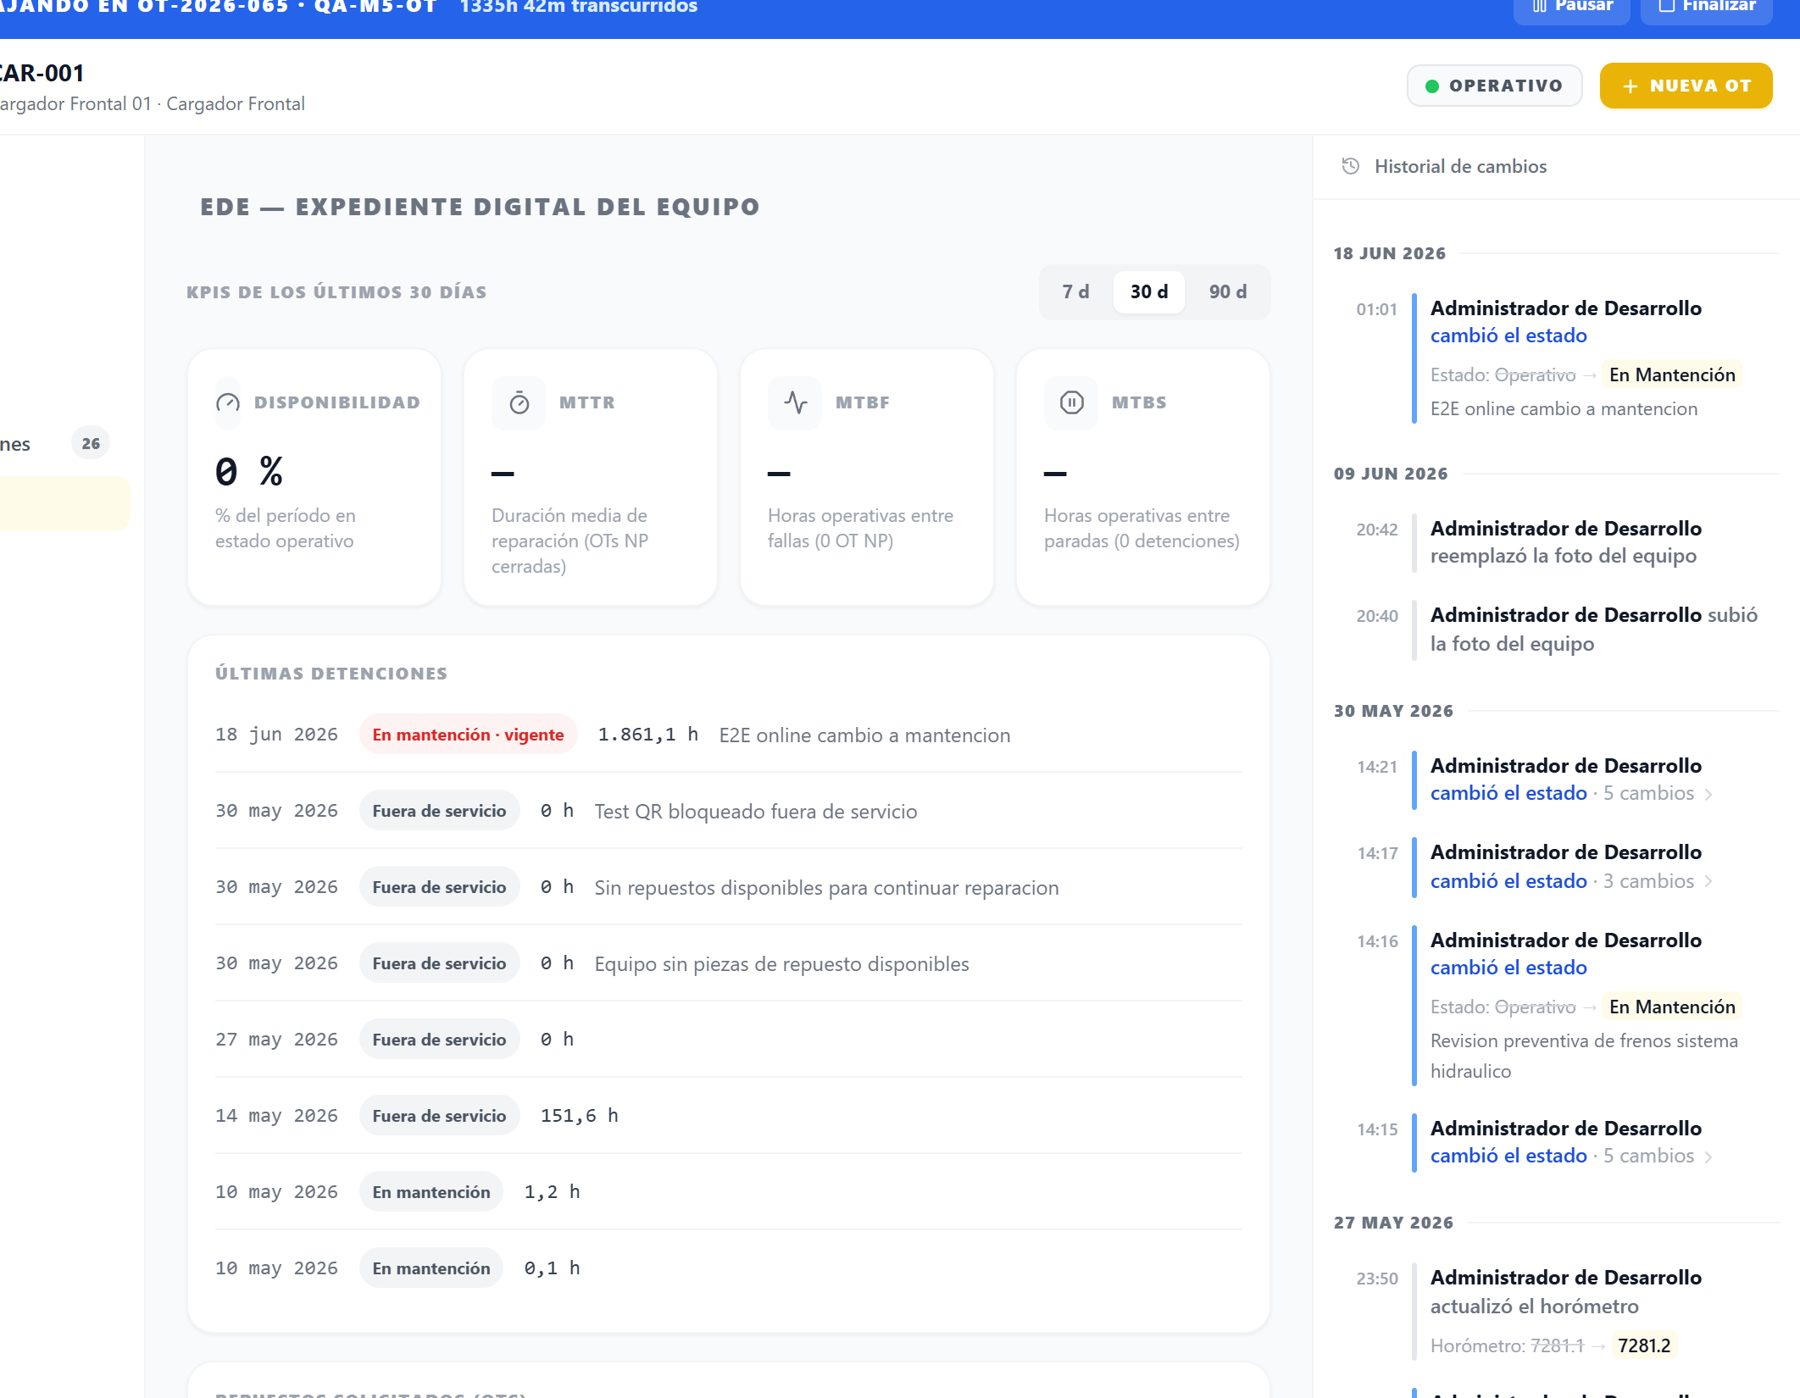
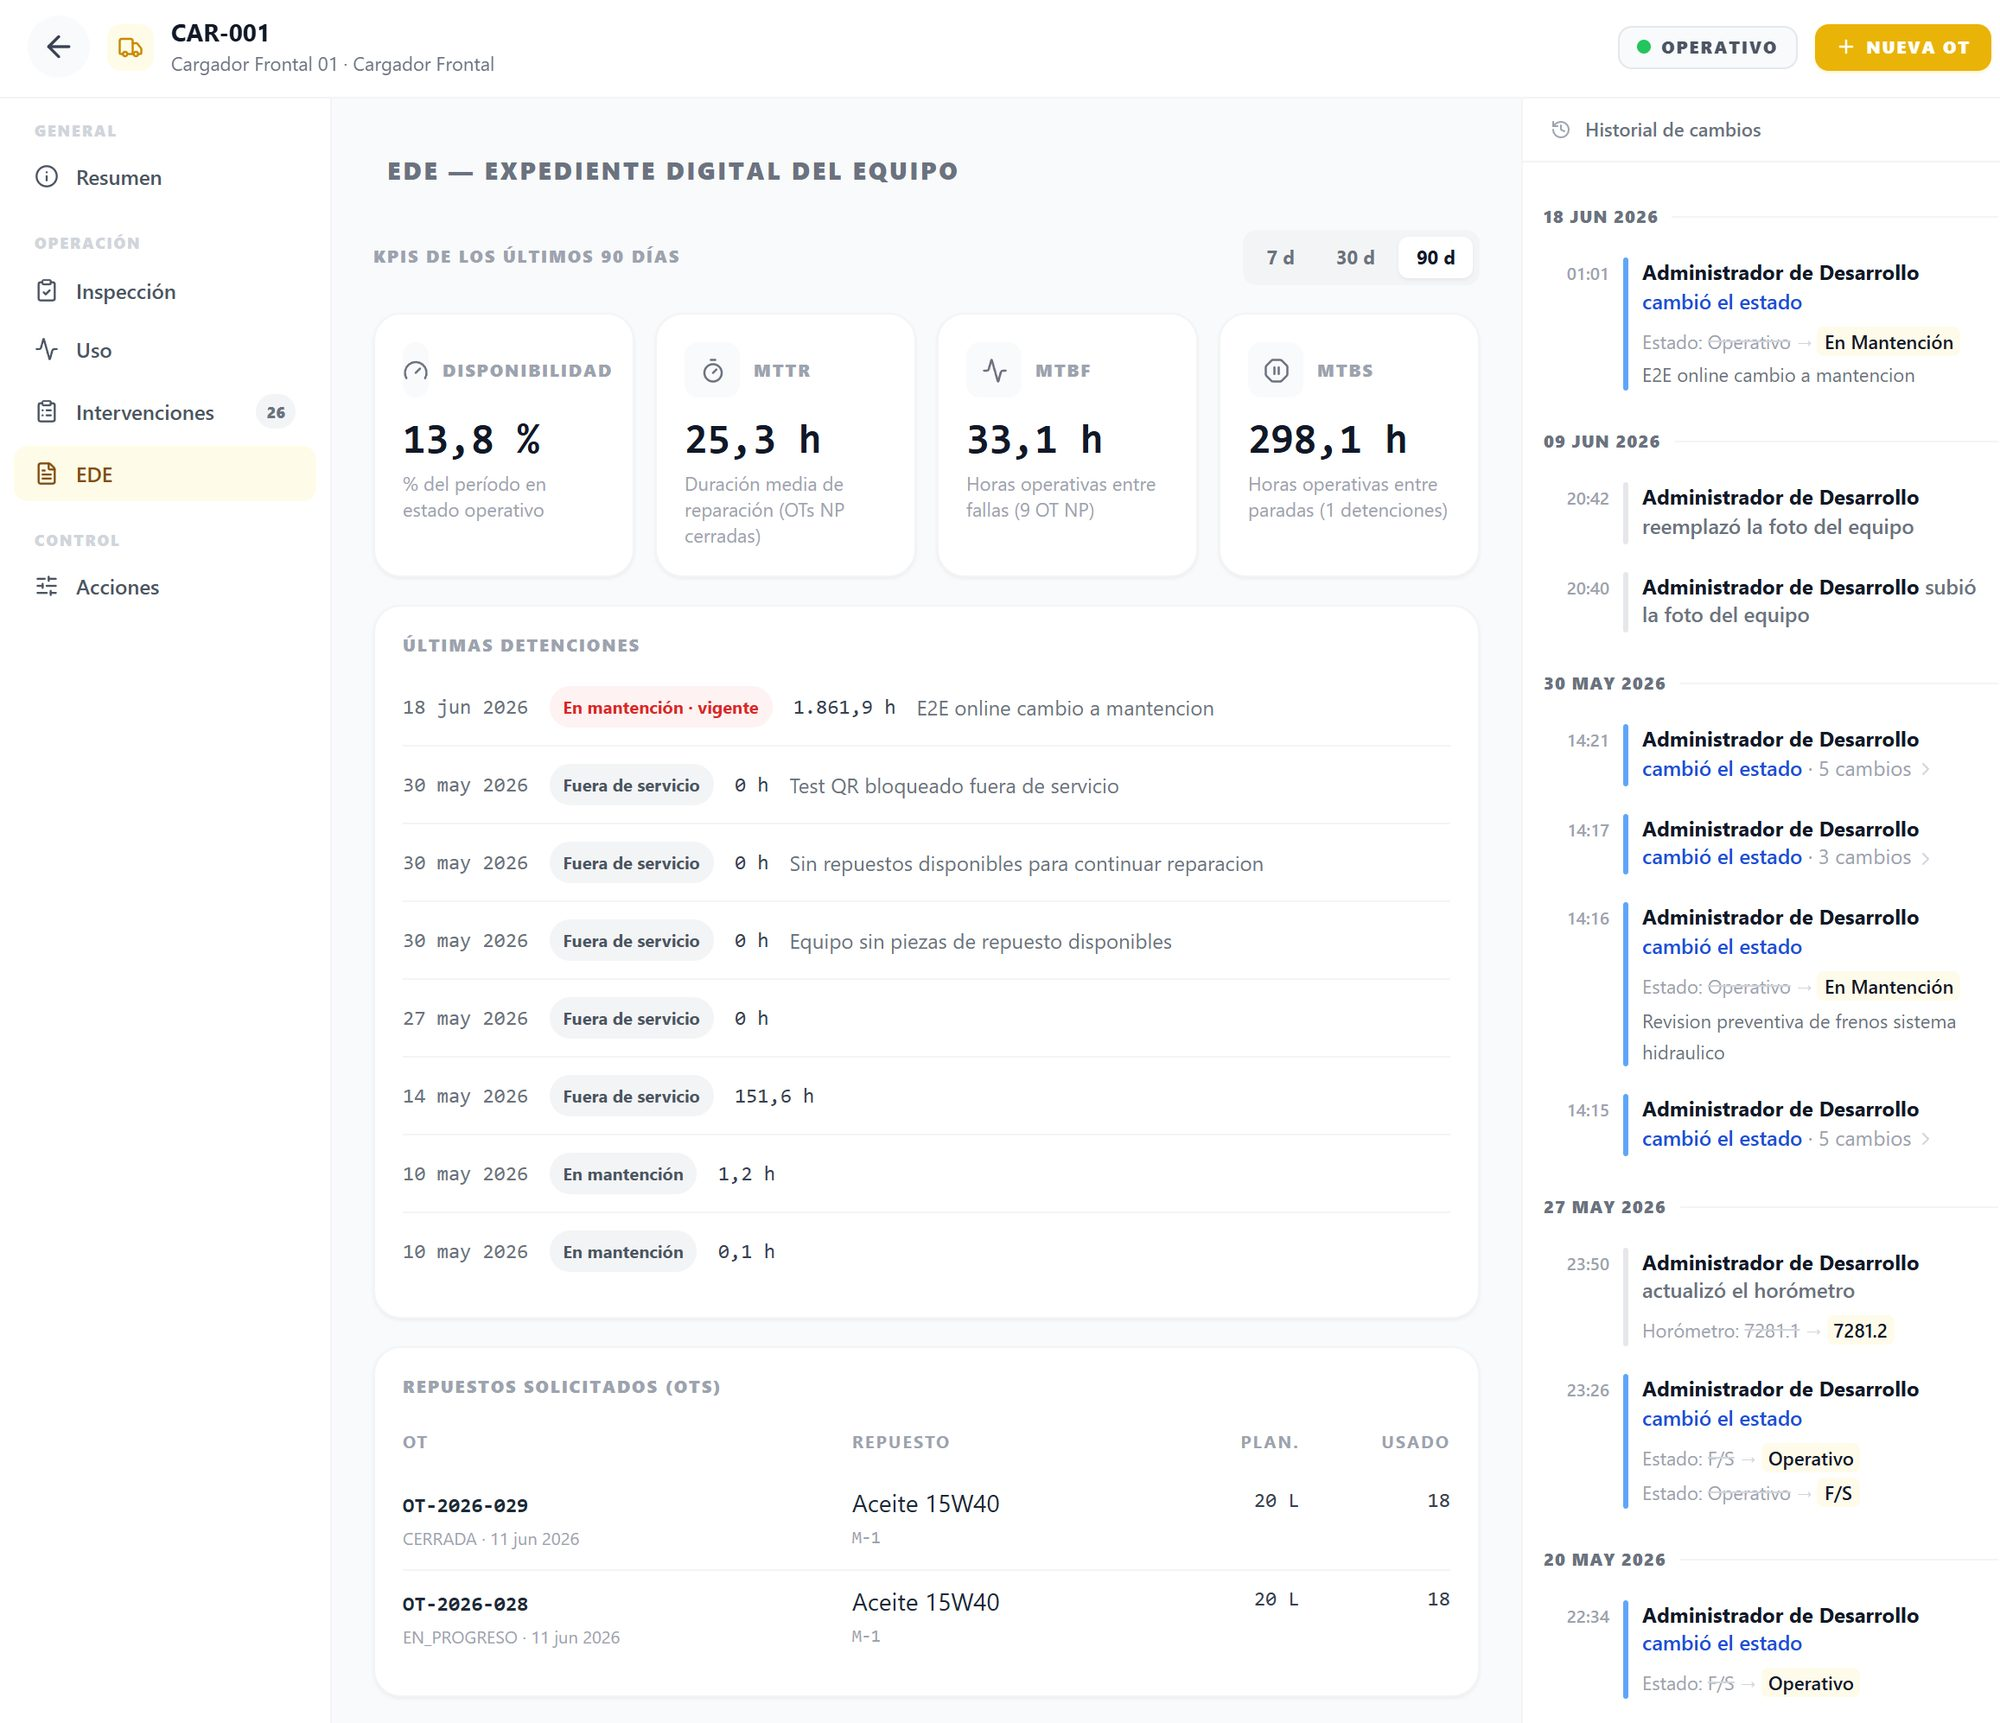
Capturas reales retomadas, Quiénes somos tipográfico y terreno con teléfono real
- panel-operacional.jpg: Visión Operativa completa (KPIs + estado de flota), sin columnas cortadas
- ede.jpg: EDE CAR-001 período 90 d con KPIs reales, sin banner de OT superpuesto
- EDE en /producto: columnas con alturas parejas (items-stretch + object-cover)
- Terreno: pantalla real de Escanear QR en marco de teléfono + bitácora a lo ancho
- Quiénes somos (home): declaración tipográfica + ficha de datos reales; fuera el
  chart de ApexCharts con cifras inventadas y el fondo gris genérico

diff --git a/swc/app/producto/page.tsx b/swc/app/producto/page.tsx
@@ -140,21 +140,22 @@ export default function ProductoPage() {
             <p className="font-mono text-xs text-cyan-300">PANTALLA REAL · DATOS DEMO</p>
           </Reveal>
           <p className="mt-4 max-w-[58ch] text-base font-light leading-relaxed text-white/80">
-            Disponibilidad de flota, equipos críticos y OTs prioritarias en una sola vista.
-            Lo que ves aquí es el panel real de sworkc con datos de demostración.
+            Estado de la flota por tipo, equipos operativos, mantenciones y órdenes de trabajo
+            activas en una sola vista. Lo que ves aquí es el panel real de sworkc con datos de
+            demostración.
           </p>
 
           <Reveal variant="up" delay={100} as="div" className="mt-10">
             <div className="overflow-hidden rounded-xl border border-white/15 bg-[#0b1020] shadow-[0_40px_120px_rgba(0,0,0,0.5)]">
               <div className="flex items-center gap-2 border-b border-white/10 px-4 py-2.5 font-mono text-[11px] text-white/50">
                 <span className="h-2 w-2 rounded-full bg-cyan-400" aria-hidden />
-                panel operacional — flota · alertas · OTs
+                visión operativa — flota · estados · OTs
               </div>
               <Image
                 src="/img/producto/panel-operacional.jpg"
-                alt="Panel operacional de sworkc: equipos críticos, OTs prioritarias y disponibilidad de flota con datos de demostración"
-                width={1800}
-                height={830}
+                alt="Panel operacional de sworkc: indicadores de flota, equipos operativos, mantenciones y OTs activas con datos de demostración"
+                width={2000}
+                height={1309}
                 className="w-full"
               />
             </div>
@@ -172,19 +173,19 @@ export default function ProductoPage() {
             <p className="font-mono text-xs text-muted-foreground">KPIS · 4 / PERÍODOS · 7-30-90 D</p>
           </Reveal>
 
-          <div className="mt-10 grid items-start gap-10 lg:grid-cols-[minmax(0,1.15fr)_minmax(0,1fr)] lg:gap-14">
-            <Reveal variant="left" as="div">
-              <div className="overflow-hidden rounded-xl border border-border shadow-[var(--shadow-lg)]">
+          <div className="mt-10 grid items-start gap-10 lg:grid-cols-[minmax(0,1.15fr)_minmax(0,1fr)] lg:items-stretch lg:gap-14">
+            <Reveal variant="left" as="div" className="flex flex-col">
+              <div className="flex-1 overflow-hidden rounded-xl border border-border shadow-[var(--shadow-lg)]">
                 <Image
                   src="/img/producto/ede.jpg"
-                  alt="Expediente Digital del Equipo en sworkc: KPIs de disponibilidad, MTTR, MTBF y MTBS, últimas detenciones e historial de cambios"
-                  width={1800}
-                  height={1400}
-                  className="w-full"
+                  alt="Expediente Digital del Equipo en sworkc: KPIs de disponibilidad, MTTR, MTBF y MTBS, últimas detenciones, repuestos e historial de cambios"
+                  width={2000}
+                  height={1723}
+                  className="h-full w-full object-cover object-top"
                 />
               </div>
               <p className="mt-3 font-mono text-[11px] text-muted-foreground">
-                EDE de un cargador frontal · datos de demostración
+                EDE de un cargador frontal · período 90 días · datos de demostración
               </p>
             </Reveal>
 
@@ -216,31 +217,64 @@ export default function ProductoPage() {
         </div>
       </section>
 
-      {/* ── Terreno: QR / offline / multiempresa como ficha técnica ── */}
+      {/* ── Terreno: pantalla real de teléfono + bitácora QR / offline / multiempresa ── */}
       <section className="border-t border-border bg-[#f6f8fc] py-16 sm:py-24">
         <div className="mx-auto max-w-6xl px-6 lg:px-10">
-          <Reveal variant="up" as="h2" className="max-w-[26ch] font-display text-3xl font-bold tracking-[-0.01em] text-ink sm:text-4xl">
-            Hecho para el terreno, no para la oficina
+          <Reveal variant="up" as="div" className="flex flex-wrap items-end justify-between gap-4 border-b-2 border-[#0a0c77] pb-5">
+            <h2 className="max-w-[26ch] font-display text-3xl font-bold tracking-[-0.01em] text-ink sm:text-4xl">
+              Hecho para el terreno, no para la oficina
+            </h2>
+            <p className="font-mono text-xs text-muted-foreground">PANTALLA REAL · ANDROID</p>
           </Reveal>
 
-          <div className="mt-12 grid gap-12 lg:grid-cols-3 lg:gap-8">
-            {TERRENO.map((t, i) => (
-              <Reveal key={t.id} variant="up" delay={i * 90} as="article" className="scroll-mt-28" {...{ id: t.id }}>
-                <p className="font-mono text-sm font-medium text-[#0a0c77]">{t.code}</p>
-                <h3 className="mt-2 font-display text-xl font-semibold tracking-tight text-ink">
-                  {t.title}
-                </h3>
-                <p className="mt-3 max-w-[44ch] text-sm leading-relaxed text-ink-soft">{t.desc}</p>
-                <dl className="mt-5 border-t border-[#0a0c77]/20">
-                  {t.spec.map(([k, v]) => (
-                    <div key={k} className="grid grid-cols-[110px_minmax(0,1fr)] gap-3 border-b border-border py-2.5">
-                      <dt className="font-mono text-[11px] uppercase tracking-[0.1em] text-muted-foreground">{k}</dt>
-                      <dd className="text-sm text-ink">{v}</dd>
-                    </div>
-                  ))}
-                </dl>
-              </Reveal>
-            ))}
+          <div className="mt-12 grid gap-12 lg:grid-cols-[minmax(0,340px)_minmax(0,1fr)] lg:gap-16">
+            {/* Teléfono con la pantalla real de Escanear QR */}
+            <Reveal variant="left" as="div" className="order-last lg:order-first">
+              <div className="mx-auto w-[270px] max-w-full lg:sticky lg:top-28">
+                <div className="overflow-hidden rounded-[2.1rem] border-[7px] border-[#060733] bg-[#060733] shadow-[0_35px_90px_rgba(6,7,51,0.35)]">
+                  <Image
+                    src="/img/producto/escanear-qr.jpg"
+                    alt="Pantalla Escanear QR de sworkc en un teléfono: abrir cámara, elegir equipo sin QR y pasos de cómo funciona"
+                    width={900}
+                    height={1948}
+                    className="w-full"
+                  />
+                </div>
+                <p className="mt-3 text-center font-mono text-[11px] text-muted-foreground">
+                  Registro por QR en terreno · pantalla real
+                </p>
+              </div>
+            </Reveal>
+
+            {/* Bitácora de capacidades de terreno */}
+            <div>
+              {TERRENO.map((t, i) => (
+                <Reveal
+                  key={t.id}
+                  variant="up"
+                  delay={i * 80}
+                  as="article"
+                  className={`scroll-mt-28 grid gap-x-8 gap-y-3 py-8 first:pt-0 last:pb-0 sm:grid-cols-[64px_minmax(0,1fr)] ${i > 0 ? "border-t border-border" : ""}`}
+                  {...{ id: t.id }}
+                >
+                  <p className="font-mono text-sm font-medium text-[#0a0c77]">{t.code}</p>
+                  <div>
+                    <h3 className="font-display text-xl font-semibold tracking-tight text-ink">
+                      {t.title}
+                    </h3>
+                    <p className="mt-2 max-w-[58ch] text-sm leading-relaxed text-ink-soft">{t.desc}</p>
+                    <dl className="mt-4">
+                      {t.spec.map(([k, v]) => (
+                        <div key={k} className="grid grid-cols-[130px_minmax(0,1fr)] gap-3 border-t border-border py-2">
+                          <dt className="font-mono text-[11px] uppercase tracking-[0.1em] leading-relaxed text-muted-foreground">{k}</dt>
+                          <dd className="text-sm text-ink">{v}</dd>
+                        </div>
+                      ))}
+                    </dl>
+                  </div>
+                </Reveal>
+              ))}
+            </div>
           </div>
         </div>
       </section>

diff --git a/swc/components/sections/QuienesSomos.tsx b/swc/components/sections/QuienesSomos.tsx
@@ -1,34 +1,58 @@
-import { QuienesSomosChart } from "../charts/QuienesSomosChart";
+import Link from "next/link";
+import { ArrowUpRight } from "../ui/icons";
+import { Reveal } from "../ui/Reveal";
+
+/* Ficha real de la empresa: los mismos datos verificables de /nosotros. */
+const FICHA: [string, string][] = [
+  ["Sede", "Chile"],
+  ["Foco", "Minería y contratistas"],
+  ["Plataforma", "Web · PWA · Android"],
+  ["Implementación", "4 etapas"],
+];
 
 export function QuienesSomos() {
   return (
-    <section
-      id="nosotros"
-      className="relative overflow-hidden"
-      style={{
-        background:
-          "linear-gradient(135deg, var(--color-band-gray) 0%, var(--color-band-gray-2) 100%)",
-      }}
-    >
-      <div className="mx-auto grid min-h-[340px] w-full max-w-6xl items-center gap-7 px-6 py-10 sm:py-12 lg:grid-cols-[0.9fr_1.1fr] lg:gap-10">
-        <div className="max-w-xl text-left text-white">
-          <p className="font-mono text-xs font-semibold uppercase tracking-[0.28em] text-white">
-            Quiénes somos
-          </p>
+    <section id="nosotros" className="scroll-mt-28 bg-white py-20 sm:py-28">
+      <div className="mx-auto max-w-6xl px-6 lg:px-10">
+        <div className="grid gap-12 lg:grid-cols-[minmax(0,7fr)_minmax(0,3fr)] lg:gap-20">
+          <Reveal variant="up" as="div">
+            <p className="font-mono text-[13px] text-[#0a0c77]">quiénes somos</p>
+            <h2 className="mt-5 max-w-[24ch] font-display text-[clamp(1.9rem,3.8vw,2.9rem)] font-light leading-[1.16] tracking-[-0.01em] text-ink [text-wrap:balance]">
+              Informática que{" "}
+              <strong className="font-bold text-[#0a0c77]">sostiene la operación minera</strong>
+            </h2>
+            <p className="mt-6 max-w-[58ch] text-base leading-relaxed text-ink-soft">
+              Sworkc Technologies crea herramientas digitales para que las operaciones mineras
+              registren turnos, mantenciones, fallas y equipos con información clara, trazable y
+              lista para decidir.
+            </p>
+            <Link
+              href="/nosotros"
+              className="group mt-7 inline-flex items-center gap-2 font-display text-sm font-semibold text-[#0a0c77] underline-offset-4 hover:underline"
+            >
+              Conoce cómo trabajamos
+              <ArrowUpRight
+                size={16}
+                className="transition-transform group-hover:-translate-y-0.5 group-hover:translate-x-0.5"
+              />
+            </Link>
+          </Reveal>
 
-          <h2 className="mt-4 font-display text-3xl font-bold leading-tight tracking-tight text-white sm:text-[2.35rem]">
-            Informática que sostiene la operación minera
-          </h2>
-
-          <p className="mt-4 text-base leading-relaxed text-white sm:text-lg">
-            Sworkc Technologies crea herramientas digitales para que las operaciones mineras
-            registren turnos, mantenciones, fallas y equipos con información clara, trazable y
-            lista para decidir.
-          </p>
-        </div>
-
-        <div className="w-full">
-          <QuienesSomosChart />
+          <Reveal variant="up" delay={120} as="div" className="lg:self-end">
+            <dl className="border-t-2 border-[#0a0c77]">
+              {FICHA.map(([k, v]) => (
+                <div
+                  key={k}
+                  className="grid grid-cols-[130px_minmax(0,1fr)] gap-3 border-b border-border py-2.5"
+                >
+                  <dt className="font-mono text-[11px] uppercase tracking-[0.1em] leading-relaxed text-muted-foreground">
+                    {k}
+                  </dt>
+                  <dd className="text-sm text-ink">{v}</dd>
+                </div>
+              ))}
+            </dl>
+          </Reveal>
         </div>
       </div>
     </section>

diff --git a/DESIGN.md b/DESIGN.md
@@ -24,6 +24,7 @@ Estrategia **Committed**: el azul de marca carga 30–60% de la superficie.
 - **Bitácora / spec-ledger**: filas `grid [código-mono | título+desc | capacidades-mono]` separadas por hairlines (`border-border`), heading con `border-b-2` azul y contador mono a la derecha. Reemplaza toda grilla de tarjetas.
 - **Ficha técnica** (`<dl>` clave/valor): filas `[etiqueta-mono-uppercase | valor]` con hairlines. Usada en terreno, dónde-estamos.
 - **Banda de producto real**: fondo #060733, marco de "monitor" (borde blanco/15, barra superior mono con punto cyan), captura REAL del sistema rotulada `PANTALLA REAL · DATOS DEMO`.
+- **Marco de teléfono**: borde grueso navy `border-[7px] border-[#060733] rounded-[2.1rem]`, captura móvil REAL (390px @3x), caption mono centrado debajo. Usado en la sección terreno de /producto; en desktop va `sticky top-28` junto a la bitácora.
 - **RelatedLinks**: enlaces con `border-t-2` azul que se enciende al hover; sin tarjetas.
 - **Reveal**: visible por defecto en SSR (SEO/sin-JS); JS oculta y anima solo lo que está bajo el viewport; respeta `prefers-reduced-motion`.
 
